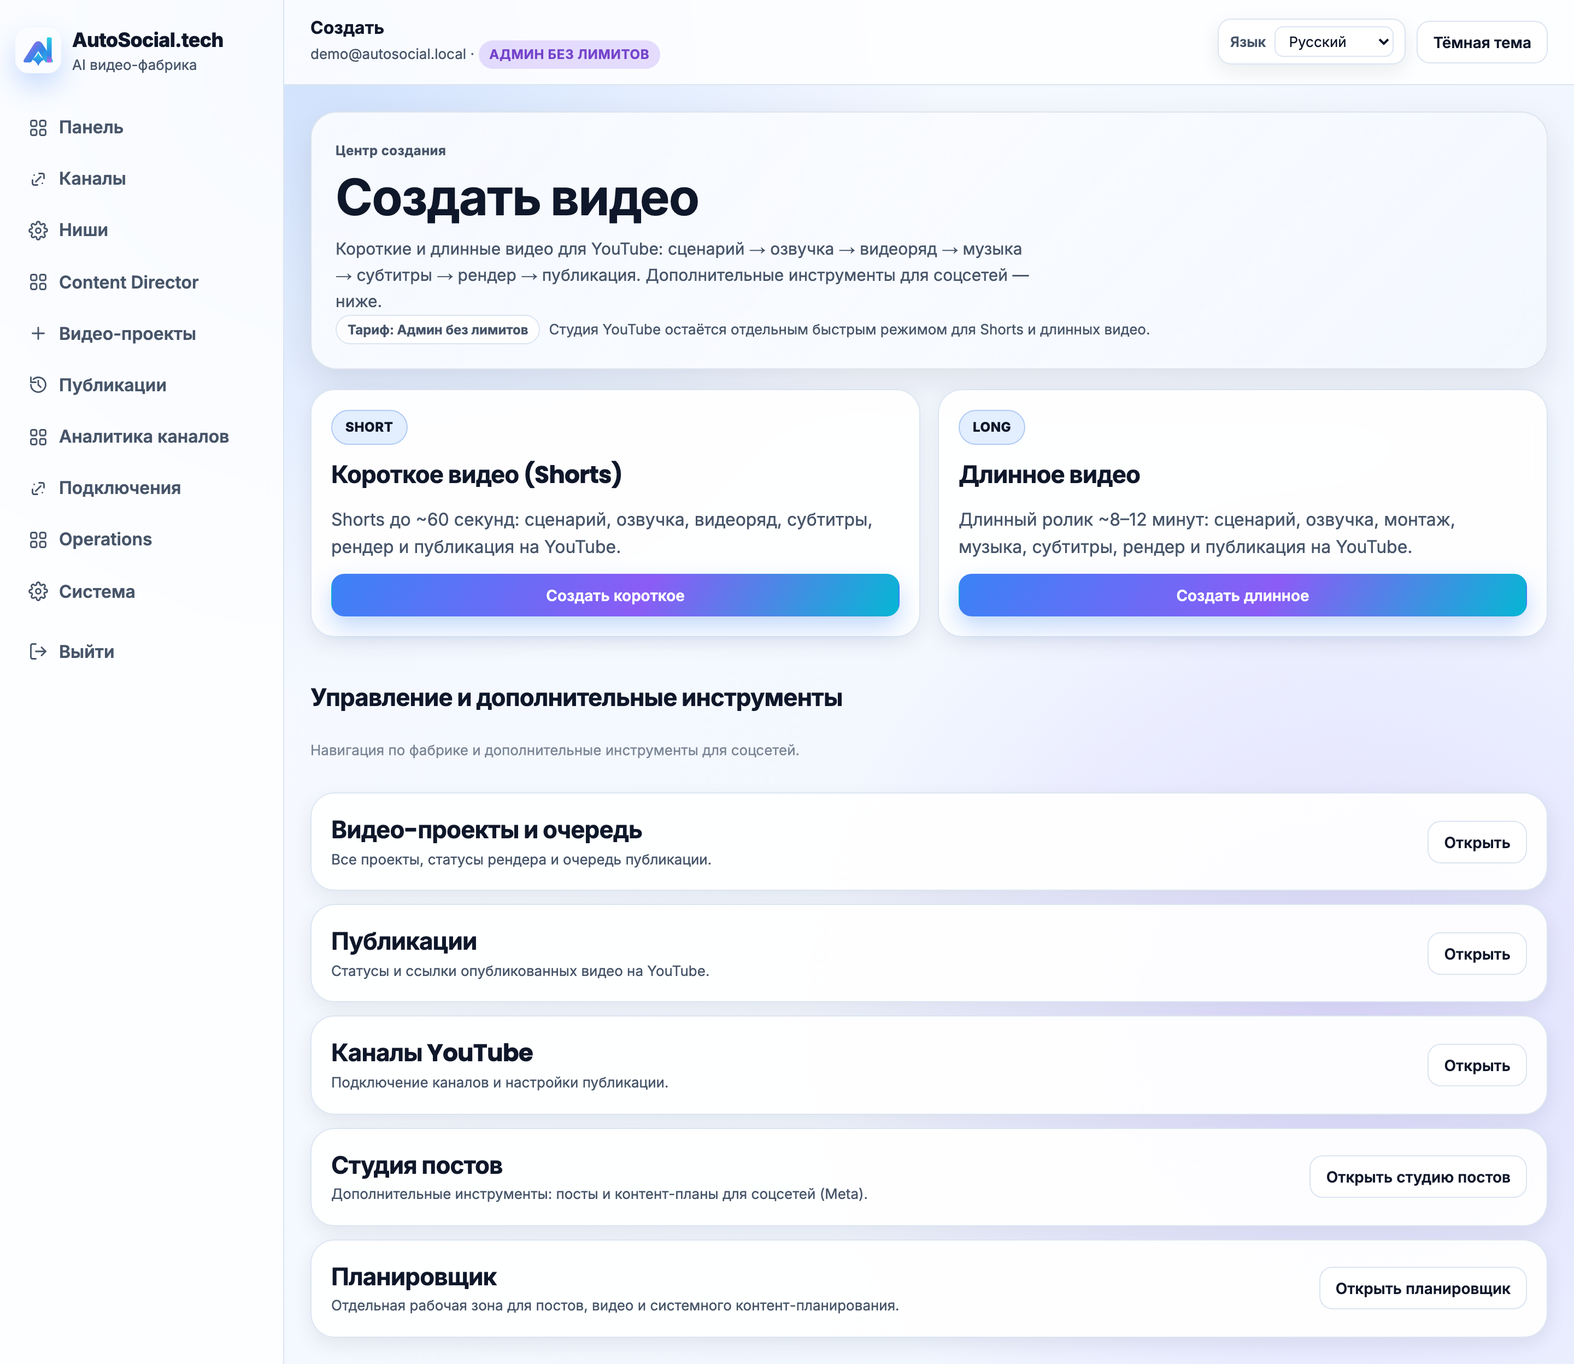
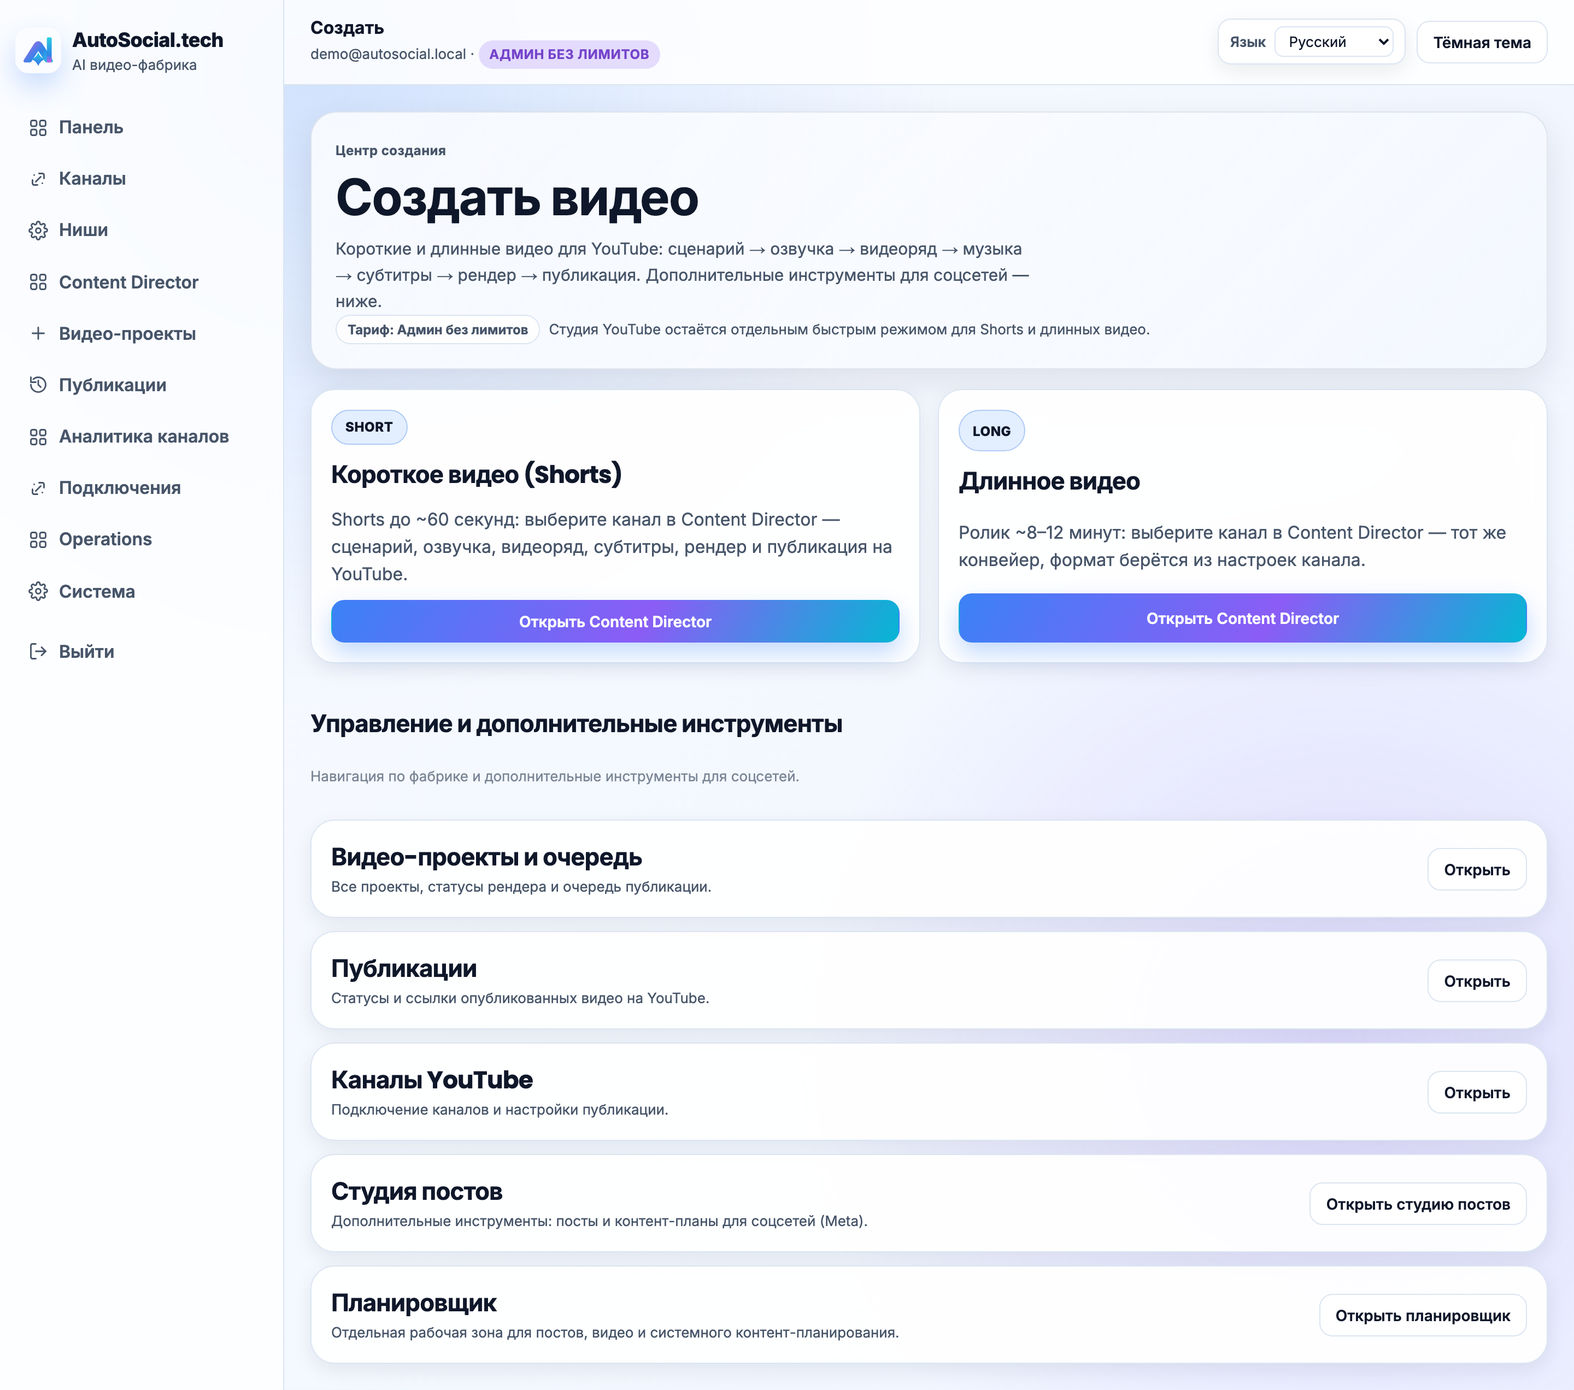
fix: repoint Create Hub CTAs and purge remaining SMM/autoposting branding
Create Hub's Short/Long CTAs linked to /create/video?format=short|long, but
getCreatePlannerRoute() intercepts /create/video before the route map and
always resolves it to the legacy multi-platform weekly planner regardless of
query string -- both buttons silently landed on the wrong page. Repointed
both to /content-director, the real channel-aware entry point where short vs.
long follows the channel's configured format.

While reviewing the destination for this fix, found that pageLogin() --
the actual unauthenticated landing/login page rendered by app.js, not the
static frontend/index.html shell -- still carried the full pre-pivot SMM/
autoposting pitch (pain cards, feature list, hero copy) even though the
static shell's meta description and other pages already say "AI Video
Factory". The brand logo SVGs (logo-full-light.svg, logo-full-dark.svg),
used in the site header on every page, had the same stale "AI SMM Manager"
tagline baked into the asset as literal SVG text. Rewrote both to the
AI Video Factory positioning and bumped the logo's cache-busting version so
existing browser caches actually pick up the change.

Verified live: both CTAs open the real Content Director page; the login
page reads cleanly end to end with no SMM/autoposting language left. Full
suite: 268 passed, 1 skipped (pre-existing skip, unrelated). Recaptured
create-hub/-short/-long screenshots against the fixed copy.

diff --git a/frontend/app.js b/frontend/app.js
@@ -8131,39 +8131,38 @@ function pageLogin() {
     : t('auth_hint_default');
   const painCards = [
     {
-      title: 'Контент забирает часы каждую неделю',
-      text: 'Идеи, тексты, согласования и публикация вручную съедают время владельца или маркетолога.',
+      title: 'Съёмка и монтаж отнимают часы каждую неделю',
+      text: 'Сценарий, озвучка, подбор видеоряда и монтаж вручную съедают время автора или редактора канала.',
       icon: '<svg viewBox="0 0 24 24" class="icon"><circle cx="12" cy="12" r="9"></circle><path d="M12 7v5l3 2"></path></svg>',
     },
     {
-      title: 'Постинг идёт нерегулярно',
-      text: 'Когда публикации зависят от ручного режима, соцсети быстро становятся хаотичными и нестабильными.',
+      title: 'Ролики выходят нерегулярно',
+      text: 'Когда публикация зависит от ручного режима, канал быстро теряет ритм выхода видео.',
       icon: '<svg viewBox="0 0 24 24" class="icon"><rect x="3.5" y="4.5" width="17" height="16" rx="2.4"></rect><path d="M8 3v3.5M16 3v3.5M3.5 9h17"></path></svg>',
     },
     {
-      title: 'Посты не приводят к заявкам',
-      text: 'Без понятной структуры, оффера и CTA контент набирает просмотры, но не помогает продавать.',
+      title: 'Короткие и длинные видео тянуть вручную сложно',
+      text: 'Shorts и длинные ролики требуют разного сценария и монтажа — на оба формата вручную не хватает рук.',
       icon: '<svg viewBox="0 0 24 24" class="icon"><path d="M4 18h16M7 14l3-3 3 2 4-5"></path><circle cx="17" cy="8" r="1.1"></circle></svg>',
     },
     {
-      title: 'Рост упирается в операционку',
-      text: 'Чтобы вести больше аккаунтов и кампаний, приходится нанимать людей вместо масштабирования процесса.',
+      title: 'Рост канала упирается в операционку',
+      text: 'Чтобы публиковать чаще и вести больше каналов, приходится нанимать людей вместо масштабирования процесса.',
       icon: '<svg viewBox="0 0 24 24" class="icon"><rect x="3" y="4" width="7" height="7" rx="1.4"></rect><rect x="14" y="4" width="7" height="7" rx="1.4"></rect><rect x="8.5" y="13" width="7" height="7" rx="1.4"></rect></svg>',
     },
   ];
   const features = [
-    ['Готовые темы и идеи', 'Сервис подсказывает темы, углы подачи и форматы, чтобы не начинать с пустого листа.'],
-    ['Посты и видео в одном сервисе', 'Генерируйте тексты, сценарии, структуры и материалы для регулярного контент-потока.'],
-    ['Автопостинг по расписанию', 'Публикуйте в нужное время без ручной рутины и потери ритма.'],
-    ['Контент-календарь', 'Планируйте неделю и месяц вперёд, чтобы видеть весь поток публикаций в одном месте.'],
-    ['Понятно для малого бизнеса', 'Не нужен отдельный контент-отдел: владелец, маркетолог или SMM могут запустить процесс сами.'],
-    ['Рост без хаоса', 'Больше проектов, клиентов и каналов без роста операционной нагрузки на команду.'],
+    ['Сценарии под нишу', 'Сервис пишет сценарий и структуру ролика под вашу нишу и формат.'],
+    ['Озвучка и субтитры', 'TTS-озвучка и субтитры с синхронизацией по словам — без ручной начитки и разметки.'],
+    ['Подбор видеоряда и музыки', 'Видеоряд и музыка подбираются автоматически под тему и настроение ролика.'],
+    ['Shorts и длинные видео', 'Один пайплайн собирает и короткие ролики, и видео на 8–12 минут.'],
+    ['Публикация по расписанию', 'Готовые ролики публикуются на YouTube в заданное время без ручной рутины.'],
+    ['Рост без хаоса', 'Больше каналов и ниш без роста операционной нагрузки на команду.'],
   ];
-  const pricing = MARKETING_PRICING_PLANS;
 
   return `<div class="landing-2026 page">
     <header class="landing-2026-topbar">
-      <img src="/assets/brand/logo-full-light.svg?v=brand-full-2026-03-22-01" alt="AutoSocial.tech"/>
+      <img src="/assets/brand/logo-full-light.svg?v=brand-full-2026-07-30-01" alt="AutoSocial.tech"/>
       <div class="landing-2026-top-actions">
         <button class="btn btn-link" data-link="/contact" type="button">${t('footer_support')}</button>
       </div>
@@ -8171,9 +8170,9 @@ function pageLogin() {
 
     <section class="landing-2026-hero reveal">
       <div class="landing-2026-hero-copy">
-        <span class="landing-2026-chip">Для малого бизнеса, маркетолога и in-house SMM без отдельной контент-команды</span>
-        <h1>Генерируйте посты и видео для соцсетей и запускайте автопостинг из одного сервиса.</h1>
-        <p>AutoSocial.tech помогает малому бизнесу быстрее вести соцсети: подсказывает темы, собирает контент, формирует календарь и публикует в Meta и YouTube без ручной рутины.</p>
+        <span class="landing-2026-chip">AI-фабрика видео для YouTube-каналов</span>
+        <h1>Сценарий, озвучка, монтаж и публикация на YouTube — без вашего участия.</h1>
+        <p>AutoSocial.tech пишет сценарий, озвучивает его, подбирает видеоряд и музыку, накладывает субтитры, рендерит готовый ролик и публикует его на YouTube — Shorts и длинные видео, полностью автоматически.</p>
         <div class="cta-row">
           <button id="heroRegisterBtn" class="btn btn-primary cta__button">Войти</button>
         </div>
@@ -8194,7 +8193,7 @@ function pageLogin() {
     </section>
 
     <section class="landing-2026-section">
-      <h2>Почему малому бизнесу сложно вести соцсети стабильно</h2>
+      <h2>Почему каналу сложно выпускать видео стабильно</h2>
       <div class="landing-2026-grid-4">
         ${painCards.map((c) => `<article class="landing-2026-card"><div class="landing-2026-icon">${c.icon}</div><h3>${c.title}</h3><p>${c.text}</p></article>`).join('')}
       </div>
@@ -8203,23 +8202,23 @@ function pageLogin() {
     <section id="landingHow" class="landing-2026-section">
       <h2>Как AutoSocial.tech экономит время каждую неделю</h2>
       <div class="landing-2026-steps">
-        <article class="landing-2026-card"><span class="landing-2026-step">01</span><h3>Выберите тему или получите идеи</h3><p>Сервис предлагает темы, форматы и углы подачи под ваш бизнес.</p></article>
-        <article class="landing-2026-card"><span class="landing-2026-step">02</span><h3>Сгенерируйте посты и видео</h3><p>Получите текст, структуру, CTA и материалы для контента без долгой ручной подготовки.</p></article>
-        <article class="landing-2026-card"><span class="landing-2026-step">03</span><h3>Запланируйте и публикуйте</h3><p>Соберите контент-календарь и поддерживайте регулярный постинг без хаоса.</p></article>
+        <article class="landing-2026-card"><span class="landing-2026-step">01</span><h3>Настройте канал и нишу</h3><p>Укажите нишу, тон и формат — короткие ролики, длинные видео или оба.</p></article>
+        <article class="landing-2026-card"><span class="landing-2026-step">02</span><h3>Пайплайн собирает видео</h3><p>Сценарий, озвучка, видеоряд, музыка и субтитры собираются автоматически.</p></article>
+        <article class="landing-2026-card"><span class="landing-2026-step">03</span><h3>Рендер и публикация на YouTube</h3><p>Готовый ролик рендерится и публикуется по расписанию без ручной работы.</p></article>
       </div>
     </section>
 
     <section class="landing-2026-demo">
-      <h2>Что получает бизнес на выходе</h2>
-      <p>Вместо ручного цикла "придумать -> написать -> согласовать -> опубликовать" вы получаете один рабочий процесс для идей, контента и автопостинга.</p>
+      <h2>Что получает канал на выходе</h2>
+      <p>Вместо ручного цикла "придумать -> написать -> начитать -> смонтировать -> опубликовать" вы получаете один автоматический процесс от идеи до публикации на YouTube.</p>
       <div class="landing-2026-demo-box">
-        <strong>В одном окне:</strong><br/>
-        идеи и темы -> генерация постов и видео -> календарь -> публикация по расписанию
+        <strong>В одном пайплайне:</strong><br/>
+        идея и сценарий -> озвучка -> видеоряд и субтитры -> рендер -> публикация на YouTube
       </div>
     </section>
 
     <section class="landing-2026-section">
-      <h2>Что получает малый бизнес вместо ручного SMM</h2>
+      <h2>Что получает канал вместо ручного видео-продакшена</h2>
       <div class="landing-2026-grid-3">
         ${features.map(([title, text]) => `<article class="landing-2026-card landing-2026-feature"><h3>${title}</h3><p>${text}</p></article>`).join('')}
       </div>
@@ -8266,7 +8265,7 @@ function pageTrialActivated() {
   const projects = Number(billing?.limits?.projects || 1);
   return `<div class="landing-2026 page">
     <header class="landing-2026-topbar">
-      <img src="/assets/brand/logo-full-light.svg?v=brand-full-2026-03-22-01" alt="AutoSocial.tech"/>
+      <img src="/assets/brand/logo-full-light.svg?v=brand-full-2026-07-30-01" alt="AutoSocial.tech"/>
     </header>
     <main class="landing-2026-final" style="max-width:920px;margin:48px auto;">
       <span class="landing-2026-chip">Бесплатный период активирован</span>
@@ -10546,9 +10545,18 @@ function pageCreateHub() {
   const billingPlan = String(state.billing?.plan || state.user?.plan || 'free').trim().toLowerCase() || 'free';
   const planLabel = String(localizedPlanTitle(billingPlan, state.billing?.plan_title || '') || '\u0422\u0435\u043a\u0443\u0449\u0438\u0439 \u0442\u0430\u0440\u0438\u0444').trim();
   // Video Factory first: Short and Long videos are the primary actions.
+  // Both open Content Director -- the real entry point video creation goes
+  // through (pick a channel, approve a topic, the pipeline takes it from
+  // there); short vs long follows the selected channel's own format, there
+  // isn't a separate one-page form per length. /create/video intentionally
+  // NOT used here: getCreatePlannerRoute() intercepts that path before the
+  // route map, so it always opens the legacy multi-platform weekly planner
+  // instead, regardless of any query string -- a real routing bug, not a
+  // naming choice; safer to point at the already-correct destination than to
+  // touch that routing precedence for this audit-scope fix.
   const launcherCards = [
-    { title: 'Короткое видео (Shorts)', subtitle: 'Shorts до ~60 секунд: сценарий, озвучка, видеоряд, субтитры, рендер и публикация на YouTube.', href: '/create/video?format=short', accent: 'SHORT', cta: 'Создать короткое' },
-    { title: 'Длинное видео', subtitle: 'Длинный ролик ~8–12 минут: сценарий, озвучка, монтаж, музыка, субтитры, рендер и публикация на YouTube.', href: '/create/video?format=long', accent: 'LONG', cta: 'Создать длинное' },
+    { title: 'Короткое видео (Shorts)', subtitle: 'Shorts до ~60 секунд: выберите канал в Content Director — сценарий, озвучка, видеоряд, субтитры, рендер и публикация на YouTube.', href: '/content-director', accent: 'SHORT', cta: 'Открыть Content Director' },
+    { title: 'Длинное видео', subtitle: 'Ролик ~8–12 минут: выберите канал в Content Director — тот же конвейер, формат берётся из настроек канала.', href: '/content-director', accent: 'LONG', cta: 'Открыть Content Director' },
   ];
   // Secondary: navigate the factory, plus additional social-content tools (kept, not primary).
   const secondaryCards = [
